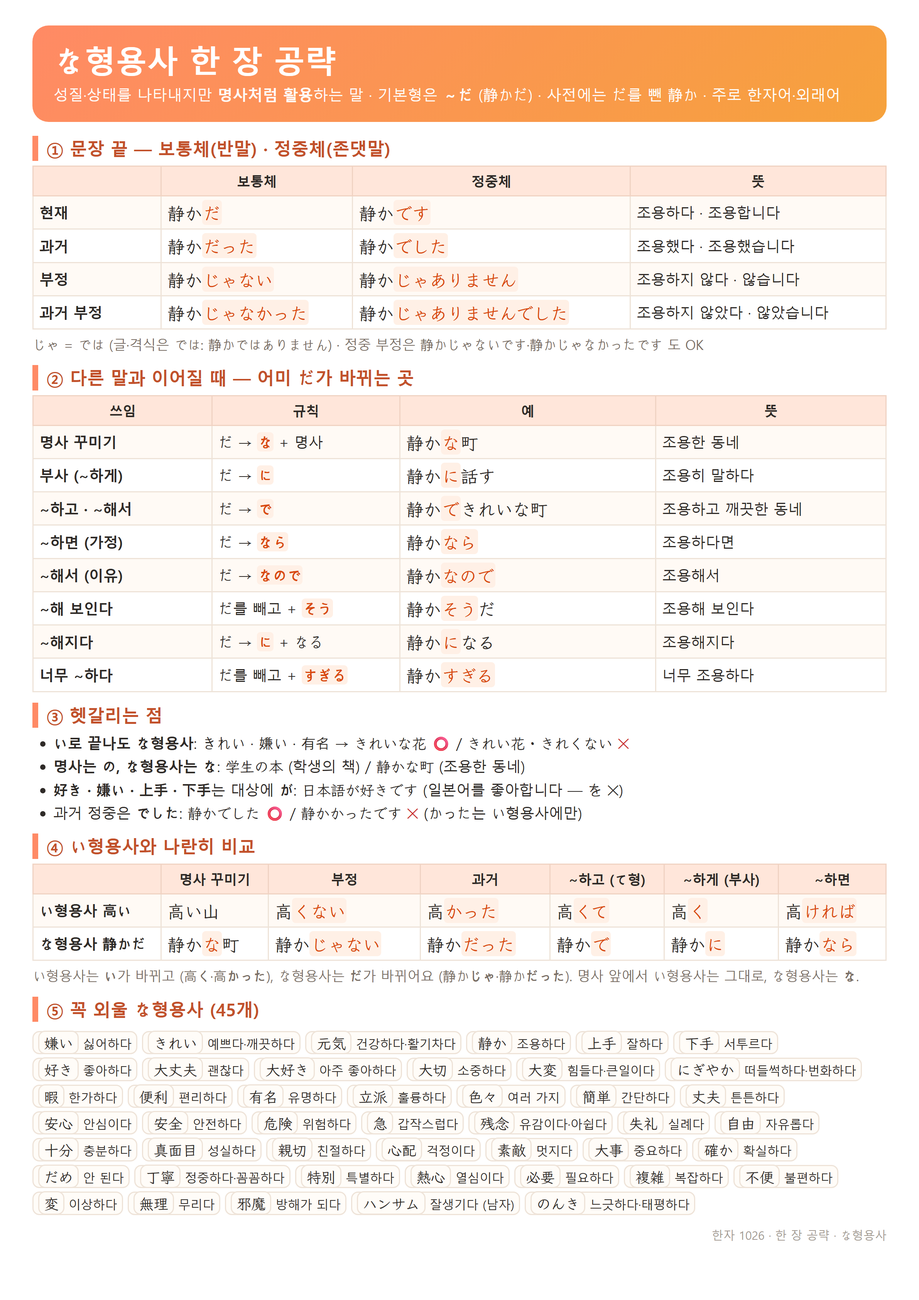
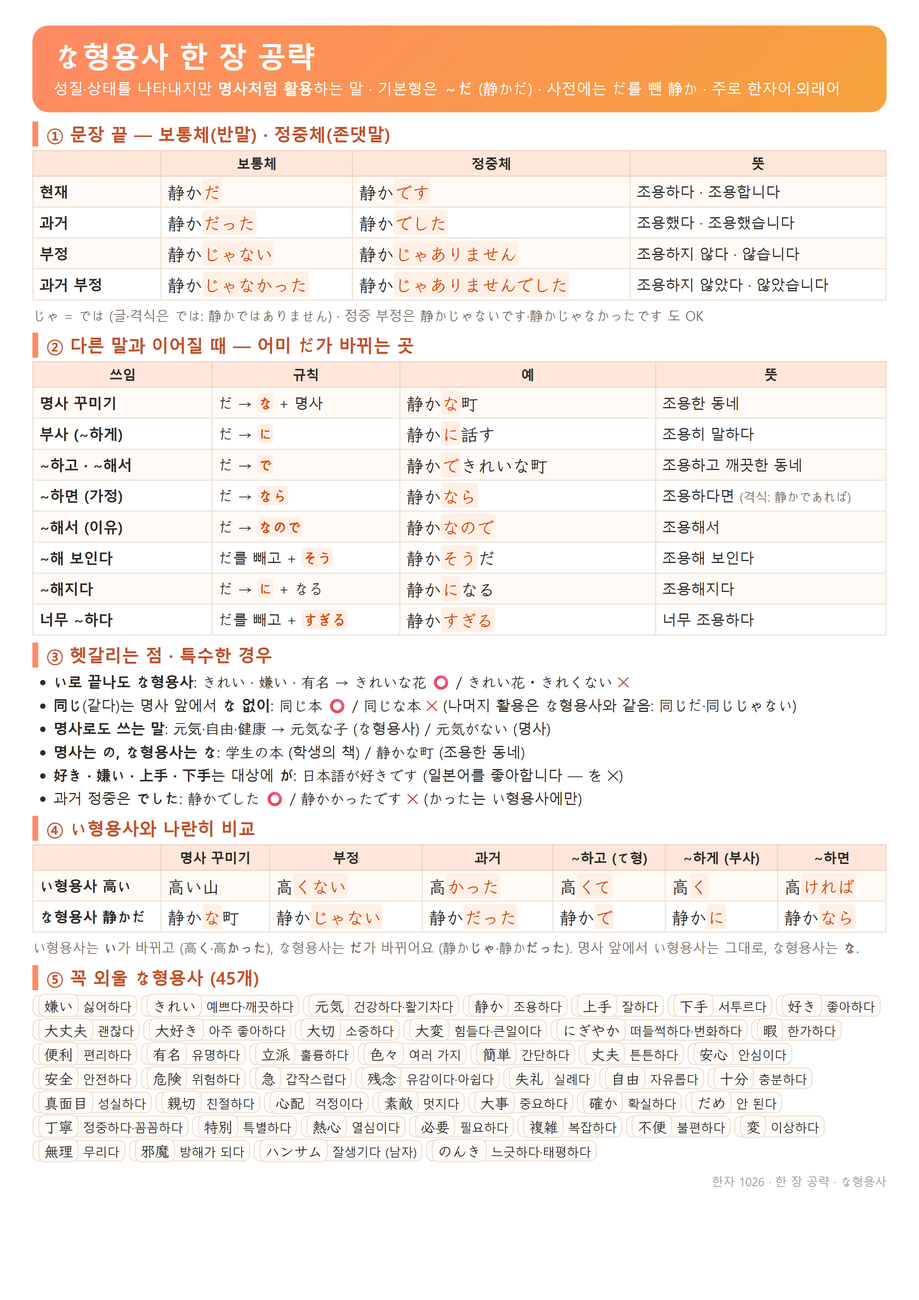
📄 한 장 공략: 1그룹 6가지 종류·특수(존경어·ある)·소리 같은 함정, な형용사 특수 경우(同じ 등), 낱말 꾹 누르면 읽기·뜻·발음

Changed region(s): [[0.0311, 0.0312, 0.9631, 0.935]]

diff --git a/index.html b/index.html
@@ -219,12 +219,12 @@ table.t th{color:var(--sub);font-size:.8rem;}
 .lsrow.cur{background:var(--accent-soft);border-radius:8px;}
 .gspage{width:794px;min-height:1123px;background:#fff;color:#2f2b28;padding:22px 28px 16px;font-family:'Apple SD Gothic Neo','Malgun Gothic','Noto Sans KR',sans-serif;font-size:12.5px;line-height:1.45;box-sizing:border-box;}
 .gspage .jp{font-family:var(--jp);font-weight:600;}
-.gspage .gshead{background:linear-gradient(135deg,#FF8A65,#F6A23C);color:#fff;border-radius:14px;padding:14px 18px;margin-bottom:12px;}
-.gspage .gshead h1{font-size:27px;margin:0;line-height:1.2;} .gspage .gshead p{margin:4px 0 0;font-size:13px;opacity:.95;}
-.gspage h2{font-size:15px;margin:9px 0 4px;color:#C2512B;border-left:5px solid #FF8A65;padding-left:7px;}
+.gspage .gshead{background:linear-gradient(135deg,#FF8A65,#F6A23C);color:#fff;border-radius:14px;padding:11px 18px;margin-bottom:8px;}
+.gspage .gshead h1{font-size:25px;margin:0;line-height:1.2;} .gspage .gshead p{margin:4px 0 0;font-size:13px;opacity:.95;}
+.gspage h2{font-size:15px;margin:6px 0 3px;color:#C2512B;border-left:5px solid #FF8A65;padding-left:7px;}
 .gspage table{width:100%;border-collapse:collapse;margin:2px 0;}
-.gspage th{background:#FFE6DA;font-size:11.5px;padding:4px 5px;border:1px solid #F0D3C3;text-align:center;}
-.gspage td{border:1px solid #EEE3D8;padding:3px 5px;vertical-align:middle;}
+.gspage th{background:#FFE6DA;font-size:11.5px;padding:3px 4px;line-height:1.3;border:1px solid #F0D3C3;text-align:center;}
+.gspage td{border:1px solid #EEE3D8;padding:2px 5px;vertical-align:middle;}
 .gspage tr:nth-child(even) td{background:#FFFAF5;}
 .gspage td.f{font-size:15px;white-space:nowrap;} .gspage td.f small{display:block;font-size:10px;color:#8A8178;font-family:'Apple SD Gothic Neo','Malgun Gothic',sans-serif;font-weight:normal;}
 .gspage b.h{color:#D9480F;background:#FFF0E6;border-radius:3px;padding:0 1px;}
@@ -233,13 +233,26 @@ table.t th{color:var(--sub);font-size:.8rem;}
 .gspage .lab{font-weight:bold;white-space:nowrap;}
 .gspage ul{margin:3px 0 0 18px;padding:0;} .gspage li{margin:2px 0;}
 .gspage .ng{color:#C92A2A;} .gspage .ok{color:#2B8A3E;}
-.gspage .chips{display:flex;flex-wrap:wrap;gap:3px 4px;justify-content:flex-start;text-align:left;}
+.gspage .chips{display:flex;flex-wrap:wrap;gap:2px 3px;justify-content:flex-start;text-align:left;margin:4px 0;line-height:1.35;}
 .gspage .chips span{border:1px solid #EEE3D8;border-radius:6px;padding:0 4px;font-size:10.5px;background:#FFFCF8;}
 .gspage .chips span .jp{font-size:12.5px;}
 .gspage .gsr{font-size:10px;color:#8A8178;font-family:'Apple SD Gothic Neo','Malgun Gothic',sans-serif;font-weight:normal;}
 .gspage .chips span.gk{background:#FF8A65;color:#fff;border-color:#FF8A65;font-weight:bold;font-size:12px;}
 .gspage .grp{font-weight:bold;color:#C2512B;margin:4px 0 1px;font-size:11.5px;}
 .gspage .foot{margin-top:10px;text-align:right;font-size:10px;color:#A39A92;}
+.gspage td.tp{white-space:nowrap;text-align:center;font-weight:bold;color:#C2512B;font-size:14px;line-height:1.2;}
+.gspage td.tp .jp{font-size:11px;}
+.gspage tr.bandb td{background:#FFF6EE;} .gspage tr.banda td{background:#fff;}
+.gspage tr.banda + tr.bandb td, .gspage tr.bandb + tr.banda td{border-top:2px solid #F0B79A;}
+.gspage .w[data-y]{cursor:pointer;}
+.gspage li .w, .gspage p .w{border-bottom:1px dotted #E8A88A;}
+.gspage.gsprint li .w, .gspage.gsprint p .w{border-bottom:none;}
+.gsstage{-webkit-touch-callout:none;}
+.gspop{position:fixed;z-index:60;background:#2F2B28;color:#fff;border-radius:14px;padding:10px 14px;max-width:300px;box-shadow:0 6px 24px rgba(0,0,0,.35);pointer-events:none;text-align:center;}
+.gspop .t{font-family:var(--jp);font-size:1.6rem;font-weight:600;line-height:1.25;}
+.gspop .y{font-family:var(--jp);font-size:1.05rem;color:#FFD3BC;margin-top:2px;}
+.gspop .m{font-size:.9rem;margin-top:4px;} .gspop .n{font-size:.8rem;color:#C9BFB6;margin-top:2px;}
+.gspage [data-y].on{outline:3px solid #FF8A65;outline-offset:1px;border-radius:3px;}
 .gslist{display:grid;grid-template-columns:1fr 1fr;gap:10px;}
 .gslist button{background:#fff;border-radius:14px;padding:14px 10px;text-align:left;box-shadow:0 2px 8px rgba(120,90,60,.07);}
 .gslist button b{display:block;font-size:1.05rem;} .gslist button small{color:var(--sub);font-size:.8rem;}
@@ -470,6 +483,7 @@ function show(name, title) {
   $('#btnBack').style.display = name === 'Home' ? 'none' : '';
   window.scrollTo(0, 0);
   stopAnim(); if (window.closeKanaStroke) closeKanaStroke();
+  if (window.gsPop) gsPop(null);
 }
 
 /* ═══════════════ 뒤로가기 (◀ 버튼) ═══════════════ */
@@ -2338,78 +2352,107 @@ function renderPosListen(modeTabs) {
 // 저장용 PNG(data/sheets/ID.png, 3배 해상도)는 src/build_sheets.py 가 이 화면(?sheet=ID)을 찍어 만듦
 const GS_W = 794;
 const gsHL = (base, f) => { let i = 0; while (i < base.length && i < f.length && base[i] === f[i]) i++; return esc(f.slice(0, i)) + (i < f.length ? `<b class="h">${esc(f.slice(i))}</b>` : ''); };
-const gsCell = (base, f, r, baseY) => `<td class="f jp" lang="ja">${gsHL(base, f)}${r && r !== f ? `<small>${esc(r)}</small>` : ''}</td>`;
+// 꾹 누르면 뜨는 말풍선 자료: 읽기(y)·뜻(m)·설명(n) — 저장용 그림에는 보이지 않음
+const gsD = (y, m, n) => ` data-y="${esc(y)}" data-m="${esc(m || '')}" data-n="${esc(n || '')}"`;
+const gsCell = (base, f, y, m, n, sub) => `<td class="f jp" lang="ja"${gsD(y || f, m, n)}>${gsHL(base, f)}${sub ? `<small>${esc(sub)}</small>` : ''}</td>`;
+const gsMean = m => m.replace(/\s*\(.*\)/, '').split(/[·,]/)[0];
+// 활용어 목록에서 읽기·뜻 찾기 (없으면 그냥 글자)
+const gsW = (t, y, m) => { const r = GRAM.verbs.concat(GRAM.adjs, GRAM.advs || []).find(r => r[0] === t);
+  y = y || (r && (r[1] + (r[2] === 'na' ? '' : ''))); m = m || (r && r[3]) || '';
+  return y ? `<span class="w jp" lang="ja"${gsD(y, m)}>${esc(t)}</span>` : `<span class="jp" lang="ja">${esc(t)}</span>`; };
+const gsWs = s => s.split(' · ').map(t => gsW(t)).join(' · ');
+const GS_FORM = { masu: 'ます형 (정중)', nai: 'ない형 (부정)', te: 'て형 (~하고·~해서)', ta: 'た형 (과거)', ba: 'ば형 (~하면)', vol: '의지형 (~하자)', pot: '가능형 (~할 수 있다)',
+  nakatta: '과거 부정', tai: '~하고 싶다', imp: '명령형 (거친 말)', pass: '수동형 (~당하다)', caus: '사역형 (~시키다)', causp: '사역수동 (억지로 ~하다)' };
 function gsNa() {
-  const w = '静か', y = 'しずか', R = conjAdj(w, y, 'na');
-  const C = (f) => `<td class="f jp" lang="ja">${gsHL(w, f)}</td>`;
-  const M = (h, rest) => `<td class="f jp" lang="ja">${esc(w)}<b class="h">${esc(h)}</b>${esc(rest || '')}</td>`;   // 바뀌는 부분만 색칠
-  const I = conjAdj('高い', 'たかい', 'i'), Ih = (f, rest) => `<td class="f jp" lang="ja">${gsHL('高', f)}${esc(rest || '')}</td>`;
-  const naList = GRAM.adjs.filter(r => r[2] === 'na').map(r => `<span><span class="jp" lang="ja">${esc(r[0])}</span> ${esc(r[3].replace(/\s*\(★.*\)/, ''))}</span>`).join('');
+  const w = '静か', y = 'しずか', R = conjAdj(w, y, 'na'), mean = '静か(だ) · 조용하다';
+  const AF = { dict: '기본형 (보통 현재)', desu: '정중 현재', neg: '부정', past: '과거', pastneg: '과거 부정', te: 'て형 (~하고·~해서)', adv: '부사 (~하게)', ba: '가정 (~하면)' };
+  const C = (k, f, fy) => `<td class="f jp" lang="ja"${gsD(fy || (R[k] && R[k][1]), mean, AF[k] || '')}>${gsHL(w, f || R[k][0])}</td>`;
+  const M = (h, rest, ry, n) => `<td class="f jp" lang="ja"${gsD(y + h + (ry || rest || ''), mean, n)}>${esc(w)}<b class="h">${esc(h)}</b>${esc(rest || '')}</td>`;   // 바뀌는 부분만 색칠
+  const I = conjAdj('高い', 'たかい', 'i'), im = '高い · 높다·비싸다';
+  const Ih = (k, n) => `<td class="f jp" lang="ja"${gsD(I[k][1], im, n)}>${gsHL('高', I[k][0])}</td>`;
+  const J = (t, ty, m) => `<span class="w jp" lang="ja"${gsD(ty, m)}>${esc(t)}</span>`;
+  const naList = GRAM.adjs.filter(r => r[2] === 'na').map(r => `<span class="w"${gsD(r[1] + 'だ', r[3])}><span class="jp" lang="ja">${esc(r[0])}</span> ${esc(r[3].replace(/\s*\(★.*\)/, ''))}</span>`).join('');
   return `<div class="gshead"><h1>な형용사 한 장 공략</h1><p>성질·상태를 나타내지만 <b>명사처럼 활용</b>하는 말 · 기본형은 <b>～だ</b> (静かだ) · 사전에는 だ를 뺀 静か · 주로 한자어·외래어</p></div>
   <h2>① 문장 끝 — 보통체(반말) · 정중체(존댓말)</h2>
   <table><tr><th style="width:15%"></th><th>보통체</th><th>정중체</th><th style="width:30%">뜻</th></tr>
-    <tr><td class="lab">현재</td>${C(R.dict[0])}${C(R.desu[0])}<td>조용하다 · 조용합니다</td></tr>
-    <tr><td class="lab">과거</td>${C(R.past[0])}${C('静かでした')}<td>조용했다 · 조용했습니다</td></tr>
-    <tr><td class="lab">부정</td>${C(R.neg[0])}${C('静かじゃありません')}<td>조용하지 않다 · 않습니다</td></tr>
-    <tr><td class="lab">과거 부정</td>${C(R.pastneg[0])}${C('静かじゃありませんでした')}<td>조용하지 않았다 · 않았습니다</td></tr></table>
+    <tr><td class="lab">현재</td>${C('dict')}${C('desu')}<td>조용하다 · 조용합니다</td></tr>
+    <tr><td class="lab">과거</td>${C('past')}${C('', '静かでした', 'しずかでした')}<td>조용했다 · 조용했습니다</td></tr>
+    <tr><td class="lab">부정</td>${C('neg')}${C('', '静かじゃありません', 'しずかじゃありません')}<td>조용하지 않다 · 않습니다</td></tr>
+    <tr><td class="lab">과거 부정</td>${C('pastneg')}${C('', '静かじゃありませんでした', 'しずかじゃありませんでした')}<td>조용하지 않았다 · 않았습니다</td></tr></table>
   <p class="rule">じゃ = では (글·격식은 では: 静かではありません) · 정중 부정은 静かじゃないです·静かじゃなかったです 도 OK</p>
   <h2>② 다른 말과 이어질 때 — 어미 だ가 바뀌는 곳</h2>
   <table><tr><th style="width:21%">쓰임</th><th style="width:22%">규칙</th><th>예</th><th style="width:27%">뜻</th></tr>
-    <tr><td class="lab">명사 꾸미기</td><td>だ → <b class="h">な</b> + 명사</td>${M('な', '町')}<td>조용한 동네</td></tr>
-    <tr><td class="lab">부사 (~하게)</td><td>だ → <b class="h">に</b></td>${M('に', '話す')}<td>조용히 말하다</td></tr>
-    <tr><td class="lab">~하고 · ~해서</td><td>だ → <b class="h">で</b></td>${M('で', 'きれいな町')}<td>조용하고 깨끗한 동네</td></tr>
-    <tr><td class="lab">~하면 (가정)</td><td>だ → <b class="h">なら</b></td>${M('なら')}<td>조용하다면</td></tr>
-    <tr><td class="lab">~해서 (이유)</td><td>だ → <b class="h">なので</b></td>${M('なので')}<td>조용해서</td></tr>
-    <tr><td class="lab">~해 보인다</td><td>だ를 빼고 + <b class="h">そう</b></td>${M('そう', 'だ')}<td>조용해 보인다</td></tr>
-    <tr><td class="lab">~해지다</td><td>だ → <b class="h">に</b> + なる</td>${M('に', 'なる')}<td>조용해지다</td></tr>
-    <tr><td class="lab">너무 ~하다</td><td>だ를 빼고 + <b class="h">すぎる</b></td>${M('すぎる')}<td>너무 조용하다</td></tr></table>
-  <h2>③ 헷갈리는 점</h2>
+    <tr><td class="lab">명사 꾸미기</td><td>だ → <b class="h">な</b> + 명사</td>${M('な', '町', 'まち', '조용한 동네')}<td>조용한 동네</td></tr>
+    <tr><td class="lab">부사 (~하게)</td><td>だ → <b class="h">に</b></td>${M('に', '話す', 'はなす', '조용히 말하다')}<td>조용히 말하다</td></tr>
+    <tr><td class="lab">~하고 · ~해서</td><td>だ → <b class="h">で</b></td>${M('で', 'きれいな町', 'きれいなまち', '조용하고 깨끗한 동네')}<td>조용하고 깨끗한 동네</td></tr>
+    <tr><td class="lab">~하면 (가정)</td><td>だ → <b class="h">なら</b></td>${M('なら', '', '', '조용하다면')}<td>조용하다면 <span class="rule">(격식: 静かであれば)</span></td></tr>
+    <tr><td class="lab">~해서 (이유)</td><td>だ → <b class="h">なので</b></td>${M('なので', '', '', '조용해서')}<td>조용해서</td></tr>
+    <tr><td class="lab">~해 보인다</td><td>だ를 빼고 + <b class="h">そう</b></td>${M('そう', 'だ', '', '조용해 보인다')}<td>조용해 보인다</td></tr>
+    <tr><td class="lab">~해지다</td><td>だ → <b class="h">に</b> + なる</td>${M('に', 'なる', '', '조용해지다')}<td>조용해지다</td></tr>
+    <tr><td class="lab">너무 ~하다</td><td>だ를 빼고 + <b class="h">すぎる</b></td>${M('すぎる', '', '', '너무 조용하다')}<td>너무 조용하다</td></tr></table>
+  <h2>③ 헷갈리는 점 · 특수한 경우</h2>
   <ul>
-    <li><b>い로 끝나도 な형용사</b>: きれい · 嫌い · 有名 → <span class="jp">きれいな花</span> <span class="ok">⭕</span> / <span class="jp">きれい花 · きれくない</span> <span class="ng">✕</span></li>
-    <li><b>명사는 の, な형용사는 な</b>: <span class="jp">学生の本</span> (학생의 책) / <span class="jp">静かな町</span> (조용한 동네)</li>
-    <li><b>好き · 嫌い · 上手 · 下手</b>는 대상에 <b>が</b>: <span class="jp">日本語が好きです</span> (일본어를 좋아합니다 — を ✕)</li>
-    <li>과거 정중은 <b>でした</b>: <span class="jp">静かでした</span> <span class="ok">⭕</span> / <span class="jp">静かかったです</span> <span class="ng">✕</span> (かった는 い형용사에만)</li></ul>
+    <li><b>い로 끝나도 な형용사</b>: ${J('きれい', 'きれい', '예쁘다·깨끗하다')} · ${J('嫌い', 'きらい', '싫어하다')} · ${J('有名', 'ゆうめい', '유명하다')} → ${J('きれいな花', 'きれいなはな', '예쁜 꽃')} <span class="ok">⭕</span> / <span class="jp">きれい花 · きれくない</span> <span class="ng">✕</span></li>
+    <li><b>同じ</b>(같다)는 명사 앞에서 <b>な 없이</b>: ${J('同じ本', 'おなじほん', '같은 책')} <span class="ok">⭕</span> / <span class="jp">同じな本</span> <span class="ng">✕</span> (나머지 활용은 な형용사와 같음: 同じだ·同じじゃない)</li>
+    <li><b>명사로도 쓰는 말</b>: 元気·自由·健康 → ${J('元気な子', 'げんきなこ', '건강한 아이')} (な형용사) / ${J('元気がない', 'げんきがない', '기운이 없다')} (명사)</li>
+    <li><b>명사는 の, な형용사는 な</b>: ${J('学生の本', 'がくせいのほん', '학생의 책')} (학생의 책) / ${J('静かな町', 'しずかなまち', '조용한 동네')} (조용한 동네)</li>
+    <li><b>好き · 嫌い · 上手 · 下手</b>는 대상에 <b>が</b>: ${J('日本語が好きです', 'にほんごがすきです', '일본어를 좋아합니다')} (일본어를 좋아합니다 — を ✕)</li>
+    <li>과거 정중은 <b>でした</b>: ${J('静かでした', 'しずかでした', '조용했습니다')} <span class="ok">⭕</span> / <span class="jp">静かかったです</span> <span class="ng">✕</span> (かった는 い형용사에만)</li></ul>
   <h2>④ い형용사와 나란히 비교</h2>
   <table><tr><th style="width:15%"></th><th>명사 꾸미기</th><th>부정</th><th>과거</th><th>~하고 (て형)</th><th>~하게 (부사)</th><th>~하면</th></tr>
-    <tr><td class="lab">い형용사 高い</td><td class="f jp" lang="ja">${esc(I.dict[0])}山</td>${Ih(I.neg[0])}${Ih(I.past[0])}${Ih(I.te[0])}${Ih(I.adv[0])}${Ih(I.ba[0])}</tr>
-    <tr><td class="lab">な형용사 静かだ</td>${M('な', '町')}${C(R.neg[0])}${C(R.past[0])}${C(R.te[0])}${C(R.adv[0])}${C(R.ba[0])}</tr></table>
+    <tr><td class="lab">い형용사 高い</td><td class="f jp" lang="ja"${gsD('たかいやま', im, '높은 산')}>${esc(I.dict[0])}山</td>${Ih('neg', '부정')}${Ih('past', '과거')}${Ih('te', 'て형 (~하고)')}${Ih('adv', '부사 (~하게)')}${Ih('ba', '가정 (~하면)')}</tr>
+    <tr><td class="lab">な형용사 静かだ</td>${M('な', '町', 'まち', '조용한 동네')}${C('neg')}${C('past')}${C('te')}${C('adv')}${C('ba')}</tr></table>
   <p class="rule">い형용사는 <b>い</b>가 바뀌고 (高<b>く</b>·高<b>かった</b>), な형용사는 <b>だ</b>가 바뀌어요 (静か<b>じゃ</b>·静か<b>だった</b>). 명사 앞에서 い형용사는 그대로, な형용사는 <b>な</b>.</p>
   <h2>⑤ 꼭 외울 な형용사 (${GRAM.adjs.filter(r => r[2] === 'na').length}개)</h2>
   <div class="chips">${naList}</div>
   <div class="foot">한자 1026 · 한 장 공략 · な형용사</div>`;
 }
 function gsV1() {
-  const V = [['会う', 'あう', 'う'], ['待つ', 'まつ', 'つ'], ['帰る', 'かえる', 'る'], ['死ぬ', 'しぬ', 'ぬ'], ['遊ぶ', 'あそぶ', 'ぶ'], ['読む', 'よむ', 'む'],
-             ['書く', 'かく', 'く'], ['泳ぐ', 'およぐ', 'ぐ'], ['話す', 'はなす', 'す'], ['行く', 'いく', 'く★']];
-  const TE = { 'う': 'って', 'つ': 'って', 'る': 'って', 'ぬ': 'んで', 'ぶ': 'んで', 'む': 'んで', 'く': 'いて', 'ぐ': 'いで', 'す': 'して', 'く★': 'って' };
+  // 6가지 종류 = て형·た형이 바뀌는 모양으로 나눔
+  const T = [['①', 'って', [['会う', 'あう'], ['待つ', 'まつ'], ['帰る', 'かえる']]], ['②', 'んで', [['死ぬ', 'しぬ'], ['遊ぶ', 'あそぶ'], ['読む', 'よむ']]],
+             ['③', 'いて', [['書く', 'かく']]], ['④', 'いで', [['泳ぐ', 'およぐ']]], ['⑤', 'して', [['話す', 'はなす']]], ['⑥', '行って', [['行く', 'いく']]]];
   const K = ['masu', 'nai', 'te', 'ta', 'ba', 'vol', 'pot'];
-  const rows = V.map(([w, y, e]) => { const R = conjVerb(w, y, w === '行く' ? '1k' : '1');
-    return `<tr><td class="f jp" lang="ja" style="text-align:center">${esc(w)} <span class="gsr">${esc(y)}</span></td>${K.map(k => gsCell(w.slice(0, -1), R[k][0])).join('')}</tr>`; }).join('');
-  const R = conjVerb('書く', 'かく', '1'), Cw = f => gsCell('書', f);
+  const VM = Object.fromEntries(GRAM.verbs.map(r => [r[0], r[3]]));
+  const rows = T.map(([no, te, vs], ti) => vs.map(([w, y], i) => { const R = conjVerb(w, y, w === '行く' ? '1k' : '1'), m = `${w} · ${gsMean(VM[w] || '')}`;
+    return `<tr class="${ti % 2 ? 'bandb' : 'banda'}">${i ? '' : `<td class="tp" rowspan="${vs.length}">${no}${vs.length > 1 ? '<br>' : ' '}<span class="jp">${te}</span></td>`}<td class="f jp" lang="ja" style="text-align:center"${gsD(y, m, '기본형')}>${esc(w)} <span class="gsr">${esc(y)}</span></td>${K.map(k => gsCell(w.slice(0, -1), R[k][0], R[k][1], m, GS_FORM[k])).join('')}</tr>`; }).join('')).join('');
+  const R = conjVerb('書く', 'かく', '1'), wm = '書く · 쓰다', Cw = (k, f, fy, sub) => gsCell('書', f || R[k][0], fy || R[k][1], wm, GS_FORM[k] || k, sub);
+  // 특수: 존경어 (ます 앞에서 る → い, 명령형도 い) · ある (ない형 = ない)
+  const SP = [['いらっしゃる', '계시다·오시다'], ['おっしゃる', '말씀하시다'], ['くださる', '주시다'], ['なさる', '하시다'], ['ござる', '있다 (매우 정중)'], ['ある', '있다 (사물)']];
+  const sk = [['masu', 'ます형'], ['nai', 'ない형'], ['imp', '명령형']];
+  const spCell = (w, k) => { if (w === 'ござる' && k !== 'masu') return '<td class="rule">—</td>';
+    const R2 = conjVerb(w, w, w === 'ある' ? '1r' : '1a'), f = R2[k];
+    if (!f || f[0] === '—') return '<td class="rule">—</td>';
+    const hot = (k === 'masu' || k === 'imp') && w !== 'ある' || (k === 'nai' && w === 'ある');
+    const n = k === 'imp' && w !== 'ある' ? '명령형 — 존경어라 공손함 (~하세요·~해 주세요)' : GS_FORM[k];
+    return `<td class="f jp" lang="ja"${gsD(f[1], w + ' · ' + SP.find(s => s[0] === w)[1], n)}>${hot ? `<b class="h">${esc(f[0])}</b>` : esc(f[0])}</td>`; };
   const groups = {};
   GRAM.verbs.filter(r => r[2].startsWith('1') && r[4] === 5).forEach(r => { const e = r[1].slice(-1); (groups[e] = groups[e] || []).push(r); });
   const order = ['う', 'く', 'ぐ', 'す', 'つ', 'ぬ', 'ぶ', 'む', 'る'];
-  const list = '<div class="chips">' + order.filter(e => groups[e]).map(e => `<span class="gk">～${e}</span>${groups[e].map(r => `<span><span class="jp" lang="ja">${esc(r[0])}</span> ${esc(r[3].replace(/\s*\(.*\)/, '').split(/[·,]/)[0])}</span>`).join('')}`).join('') + '</div>';
+  const list = '<div class="chips">' + order.filter(e => groups[e]).map(e => `<span class="gk">～${e}</span>${groups[e].map(r => `<span class="w"${gsD(r[1], r[3])}><span class="jp" lang="ja">${esc(r[0])}</span> ${esc(gsMean(r[3]))}</span>`).join('')}`).join('') + '</div>';
   return `<div class="gshead"><h1>1그룹 동사 한 장 공략</h1><p>옛 이름 <b>5단 동사</b> · 기본형 끝이 <b>う단</b> (う·く·ぐ·す·つ·ぬ·ぶ·む·る) · 끝 글자가 あ·い·う·え·お단을 오가며 바뀜</p></div>
   <h2>① 1그룹인지 구별하기</h2>
-  <ul><li><b>る가 아닌 글자</b>로 끝나면 → 모두 1그룹 (書く · 飲む · 話す · 待つ)</li>
-    <li><b>る</b>로 끝나도 る 앞이 <b>あ·う·お단</b>이면 → 1그룹 (分かる · 降る · 乗る) · い·え단이면 대부분 2그룹 (見る · 食べる)</li>
-    <li><b>예외 (2그룹처럼 보이지만 1그룹)</b>: <span class="jp">帰る · 入る · 走る · 知る · 切る · 要る · 減る · しゃべる</span> → 帰ります · 帰らない</li></ul>
-  <h2>② 모든 활용 — 끝 글자별 (색칠 = 바뀌는 부분)</h2>
-  <table><tr><th style="width:12%">기본형</th><th>ます형<br><span class="rule">う단→い단+ます</span></th><th>ない형<br><span class="rule">う단→あ단+ない</span></th><th>て형<br><span class="rule">끝소리별 (아래)</span></th><th>た형<br><span class="rule">て→た · で→だ</span></th><th>ば형<br><span class="rule">う단→え단+ば</span></th><th>의지형<br><span class="rule">う단→お단+う</span></th><th>가능형<br><span class="rule">う단→え단+る</span></th></tr>${rows}</table>
-  <p class="rule">て형 노래: <b>う·つ·る → って</b> · <b>ぬ·ぶ·む → んで</b> · <b>く → いて</b> · <b>ぐ → いで</b> · <b>す → して</b> · ★ 行く만 → 行って·行った (行いて ✕)<br>주의: う로 끝나면 ない형은 <b>わ</b> → 会わない (会あない ✕) · <b>ある</b>(있다)의 ない형은 그냥 <b>ない</b> (あらない ✕) · ます는 <b>い단</b>에 붙음 → 書きます (書くます ✕)</p>
-  <h2>③ 書く 하나로 보는 나머지 모양</h2>
-  <table><tr><th>정중 현재</th><th>정중 과거</th><th>정중 부정</th><th>정중 과거부정</th><th>보통 과거부정</th><th>~하고 싶다</th></tr>
-    <tr>${Cw('書きます')}${Cw('書きました')}${Cw('書きません')}${Cw('書きませんでした')}${Cw(R.nakatta[0], R.nakatta[1])}${Cw(R.tai[0], R.tai[1])}</tr>
-    <tr><th>명령형</th><th>수동형 (~당하다)</th><th>사역형 (~시키다)</th><th>사역수동</th><th>~하면서</th><th>~하러 가다</th></tr>
-    <tr>${Cw(R.imp[0], R.imp[1])}${Cw(R.pass[0], R.pass[1])}${Cw(R.caus[0], R.caus[1])}${Cw(R.causp[0], R.causp[1])}${Cw('書きながら')}${Cw('書きに行く')}</tr></table>
-  <h2>④ 자주 쓰는 1그룹 동사 (N5) — 끝 글자별</h2>
+  <ul><li><b>る가 아닌 글자</b>로 끝나면 → 모두 1그룹 (${gsWs('書く · 飲む · 話す · 待つ')})</li>
+    <li><b>る</b>로 끝나도 る 앞이 <b>あ·う·お단</b>이면 → 1그룹 (${gsWs('分かる · 降る · 乗る')}) · い·え단이면 대부분 2그룹 (${gsWs('見る · 食べる')})</li>
+    <li><b>예외 (2그룹처럼 보이지만 1그룹)</b>: ${gsWs('帰る · 入る · 走る · 知る · 切る · 要る · 減る · しゃべる')} → 帰ります · 帰らない</li>
+    <li><b>소리가 같은데 그룹이 다름</b> ⚠: ${gsW('切る')}(자르다·1) 切ります·切って ↔ ${gsW('着る')}(입다·2) 着ます·着て · ${gsW('要る')}(필요하다·1) ↔ ${gsW('いる')}(있다·2) · ${gsW('帰る')}(돌아가다·1) ↔ ${gsW('変える')}(바꾸다·2)</li></ul>
+  <h2>② 6가지 종류 — て형·た형이 바뀌는 모양으로 나눔 (색칠 = 바뀌는 부분)</h2>
+  <table><tr><th style="width:7%">종류</th><th style="width:12%">기본형</th><th>ます형<br><span class="rule">う단→い단+ます</span></th><th>ない형<br><span class="rule">う단→あ단+ない</span></th><th>て형</th><th>た형<br><span class="rule">て→た · で→だ</span></th><th>ば형<br><span class="rule">う단→え단+ば</span></th><th>의지형<br><span class="rule">う단→お단+う</span></th><th>가능형<br><span class="rule">う단→え단+る</span></th></tr>${rows}</table>
+  <p class="rule">て형: ① <b>う·つ·る→って</b> ② <b>ぬ·ぶ·む→んで</b> ③ <b>く→いて</b> ④ <b>ぐ→いで</b> ⑤ <b>す→して</b> ⑥ <b>行く→行って</b> · う로 끝나면 ない형은 <b>わ</b> (会わない)</p>
+  <h2>③ 특수 — 규칙에서 벗어나는 1그룹 (색칠 = 특수한 곳)</h2>
+  <table><tr><th style="width:13%"></th>${SP.map(([w, m]) => `<th class="w"${gsD(w, w + ' · ' + m, '기본형')}><span class="jp" lang="ja">${esc(w)}</span> <span class="rule">${esc(m.split('·')[0].replace(/ \(.*/, ''))}</span></th>`).join('')}</tr>
+    ${sk.map(([k, n]) => `<tr><td class="lab">${n}</td>${SP.map(([w]) => spCell(w, k)).join('')}</tr>`).join('')}</table>
+  <p class="rule">ます 앞·명령형에서 <b>る→い</b> (いらっしゃります ✕) → <b>ください·～なさい</b>의 뿌리 · 나머지(て형 등)는 규칙대로</p>
+  <h2>④ 書く 하나로 보는 나머지 모양</h2>
+  <table><tr><th>보통 과거부정</th><th>~하고 싶다</th><th>명령형 (거친 말)</th><th>수동형 ~당하다</th><th>사역형 ~시키다</th><th>사역수동</th><th>~하면서</th></tr>
+    <tr>${Cw('nakatta')}${Cw('tai')}${Cw('imp')}${Cw('pass')}${Cw('caus')}${Cw('causp', '書かされる', 'かかされる', '= 書かせられる')}${Cw('~하면서', '書きながら', 'かきながら')}</tr></table>
+  <p class="rule">사역수동은 줄여서 <b>書かされる</b>를 많이 씀 (= 書かせられる) · 단 す로 끝나는 동사는 줄이지 않음 → 話させられる</p>
+  <h2>⑤ 자주 쓰는 1그룹 동사 (N5) — 끝 글자별</h2>
   ${list}
   <div class="foot">한자 1026 · 한 장 공략 · 1그룹 동사</div>`;
 }
 const GSHEETS = [
-  { id: 'na', t: 'な형용사', d: '문장 끝 · な·に·で 바뀌는 곳 · い형용사와 비교 · 외울 목록', html: gsNa },
-  { id: 'v1', t: '1그룹 동사', d: '구별법 · 끝 글자별 모든 활용 · て형 노래 · 외울 목록', html: gsV1 },
+  { id: 'na', t: 'な형용사', d: '문장 끝 · な·に·で 바뀌는 곳 · 특수한 경우 · い형용사와 비교', html: gsNa },
+  { id: 'v1', t: '1그룹 동사', d: '구별법 · 6가지 종류 · 특수(존경어·ある) · 외울 목록', html: gsV1 },
 ];
 let GSV = { id: null, s: 1, x: 0, y: 0, fit: 1, blob: null };
 function renderGsheet(id) {
@@ -2427,7 +2470,7 @@ function renderGsheet(id) {
       <button id="gsPrev" class="nv" ${k ? '' : 'disabled style="opacity:.4"'}>‹</button><button id="gsNext" class="nv" ${k < GSHEETS.length - 1 ? '' : 'disabled style="opacity:.4"'}>›</button><span class="t"></span>
       <button id="gsFit">🔍 전체</button><button id="gsSave">⬇ 저장</button></div>
     <div class="gsstage" id="gsStage"><div class="gspage" id="gsPage">${g.html()}</div></div>
-    <p class="muted" style="text-align:center;font-size:.78rem;margin-top:4px">두 손가락으로 확대 · 끌어서 이동 · 두 번 탭하면 확대/전체</p>`;
+    <p class="muted" style="text-align:center;font-size:.78rem;margin-top:4px">두 손가락으로 확대 · 끌어서 이동 · 두 번 탭 = 확대/전체 · <b>낱말을 꾹 누르면 읽기·뜻·발음</b></p>`;
   show('Gsheet', '📄 ' + g.t);
   $('#gsList').onclick = () => renderGsheet();
   if (k) $('#gsPrev').onclick = () => renderGsheet(GSHEETS[k - 1].id);
@@ -2454,21 +2497,56 @@ function gsInit() {
   const zoomAt = (ns, cx, cy) => { ns = Math.min(GSV.fit * 6, Math.max(GSV.fit * 0.9, ns)); GSV.x = cx - (cx - GSV.x) * ns / GSV.s; GSV.y = cy - (cy - GSV.y) * ns / GSV.s; GSV.s = ns; clamp(); apply(); };
   window.gsFit = () => { GSV.fit = st.clientWidth / GS_W; GSV.s = GSV.fit; GSV.x = 0; GSV.y = 0; clamp(); apply(); };
   gsFit();
-  const pts = new Map(); let pinch = null, lastTap = 0;
+  const pts = new Map(); let pinch = null, lastTap = 0, hold = null;
   const rel = e => { const r = st.getBoundingClientRect(); return { x: e.clientX - r.left, y: e.clientY - r.top }; };
+  const endHold = () => { if (!hold) return; clearTimeout(hold.timer);
+    if (hold.shown) { gsPop(null); if (!hold.spoke && !speechSynthesis.speaking && !speechSynthesis.pending) gsSay(hold.el.dataset.y); }   // 누르는 동안 소리가 막힌 기기(아이폰 등)는 뗄 때 읽어 줌
+    hold = null; };
   st.onpointerdown = e => {
     st.setPointerCapture(e.pointerId); pts.set(e.pointerId, rel(e));
+    endHold();
+    const el = pts.size === 1 && e.target.closest && e.target.closest('#gsPage [data-y]');
+    if (el) { const h = hold = { el, x: e.clientX, y: e.clientY, shown: false, spoke: false };
+      h.timer = setTimeout(() => { if (hold !== h) return; h.shown = true; lastTap = 0; gsPop(el, h.x, h.y); gsSay(el.dataset.y, () => { h.spoke = true; }); }, 400); }
     if (pts.size === 1) { const now = Date.now(), p = rel(e); if (now - lastTap < 300) { GSV.s > GSV.fit * 1.3 ? gsFit() : zoomAt(GSV.fit * 2.5, p.x, p.y); lastTap = 0; } else lastTap = now; }
     if (pts.size === 2) { const [a, b] = [...pts.values()]; pinch = { d: Math.hypot(a.x - b.x, a.y - b.y), s: GSV.s }; }
   };
+  st.oncontextmenu = e => e.preventDefault();
   st.onpointermove = e => {
     if (!pts.has(e.pointerId)) return;
     const prev = pts.get(e.pointerId), p = rel(e); pts.set(e.pointerId, p);
+    if (hold) { if (hold.shown) return; if (Math.hypot(e.clientX - hold.x, e.clientY - hold.y) > 8) { clearTimeout(hold.timer); hold = null; } }
     if (pts.size === 1) { GSV.x += p.x - prev.x; GSV.y += p.y - prev.y; clamp(); apply(); }
     else if (pts.size === 2 && pinch) { const [a, b] = [...pts.values()]; const d = Math.hypot(a.x - b.x, a.y - b.y); zoomAt(pinch.s * d / pinch.d, (a.x + b.x) / 2, (a.y + b.y) / 2); }
   };
-  st.onpointerup = st.onpointercancel = e => { pts.delete(e.pointerId); if (pts.size < 2) pinch = null; };
+  st.onpointerup = st.onpointercancel = e => { pts.delete(e.pointerId); if (pts.size < 2) pinch = null; endHold(); };
   st.onwheel = e => { e.preventDefault(); const p = rel(e); zoomAt(GSV.s * (e.deltaY < 0 ? 1.15 : 1 / 1.15), p.x, p.y); };
+}
+// 말풍선: 손가락 위쪽에 (화면 밖으로 안 나가게) · el 없으면 닫기
+function gsPop(el, x, y) {
+  let pop = $('#gsPop');
+  document.querySelectorAll('#gsPage [data-y].on').forEach(e => e.classList.remove('on'));
+  if (!el) { if (pop) pop.remove(); return; }
+  if (!pop) { pop = document.createElement('div'); pop.id = 'gsPop'; pop.className = 'gspop'; document.body.appendChild(pop); }
+  el.classList.add('on');
+  const t = (el.querySelector('.jp') || el).textContent.replace(/\s.*$/, '') || el.textContent;
+  const d = el.dataset;
+  pop.innerHTML = `<div class="t" lang="ja">${esc(t)}</div>${d.y && d.y !== t ? `<div class="y" lang="ja">${esc(d.y)}</div>` : ''}${d.m ? `<div class="m">${esc(d.m)}</div>` : ''}${d.n ? `<div class="n">${esc(d.n)}</div>` : ''}`;
+  const w = pop.offsetWidth, h = pop.offsetHeight;
+  pop.style.left = Math.max(8, Math.min(window.innerWidth - w - 8, x - w / 2)) + 'px';
+  pop.style.top = (y - h - 40 > 8 ? y - h - 40 : y + 40) + 'px';
+}
+// 발음: 아이폰 기본 일본어 음성 · 실제로 소리가 시작되면 ok() (막히면 뗄 때 다시 읽음)
+function gsSay(text, ok) {
+  if (!canSpeak() || !text) return;
+  if (window.LA && !window.LA.paused) window.LA.pause();
+  try {
+    speechSynthesis.cancel();
+    const u = new SpeechSynthesisUtterance(ttsText(text));
+    u.lang = 'ja-JP'; u.rate = Math.min(S.rate, 0.9); if (jaVoice) u.voice = jaVoice;
+    if (ok) u.onstart = ok;
+    speechSynthesis.speak(u);
+  } catch (e) {}
 }
 // 저장: 미리 받아 둔 PNG → 공유 창(아이폰: '이미지 저장' → 사진 앱) · 안 되면 파일 내려받기
 async function gsSave(g) {
@@ -2504,7 +2582,7 @@ const SHEET_ONLY = new URLSearchParams(location.search).get('sheet');
 if (SHEET_ONLY) {
   // src/build_sheets.py 가 이 주소를 헤드리스 크롬으로 찍어 PNG로 저장
   document.body.innerHTML = '<div id="gsOnly"></div>'; document.body.style.background = '#fff'; document.body.style.margin = '0';
-  loadScript('data/gram.js?t=' + Date.now()).then(() => { const g = GSHEETS.find(x => x.id === SHEET_ONLY); $('#gsOnly').innerHTML = `<div class="gspage">${g.html()}</div>`;
+  loadScript('data/gram.js?t=' + Date.now()).then(() => { const g = GSHEETS.find(x => x.id === SHEET_ONLY); $('#gsOnly').innerHTML = `<div class="gspage gsprint">${g.html()}</div>`;
     document.fonts.ready.then(() => { document.title = 'READY ' + $('#gsOnly .gspage').scrollHeight; }); });
 } else loadGrades().then(() => {
   if (!D.items.length) { $('#scrHome').innerHTML = '<div class="card">⚠ 한자 데이터를 불러오지 못했어요. 새로고침 해 주세요.</div>'; show('Home'); return; }

diff --git a/data/index.js b/data/index.js
@@ -1,1 +1,1 @@
-window.KANJI_AVAILABLE=[1, 2, 3, 4, 5, 6];window.KANJI_VER={"1": "aa67e988", "2": "f094f9ef", "3": "8160b842", "4": "2a42dbb5", "5": "a5a06c6c", "6": "b4a68f81"};window.GRAM_VER="5d09f0da";window.VOCAB_VER="8b90f723";window.KANA_VER="674dfcb3";window.LISTEN_VER="98892700";window.POS_VER="60bad28d";window.SHEETS_VER="b7082c9c";
+window.KANJI_AVAILABLE=[1, 2, 3, 4, 5, 6];window.KANJI_VER={"1": "aa67e988", "2": "f094f9ef", "3": "8160b842", "4": "2a42dbb5", "5": "a5a06c6c", "6": "b4a68f81"};window.GRAM_VER="5d09f0da";window.VOCAB_VER="8b90f723";window.KANA_VER="674dfcb3";window.LISTEN_VER="98892700";window.POS_VER="60bad28d";window.SHEETS_VER="79d086c9";
